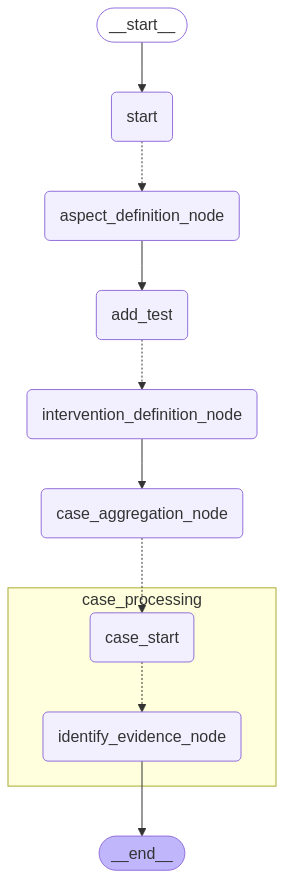
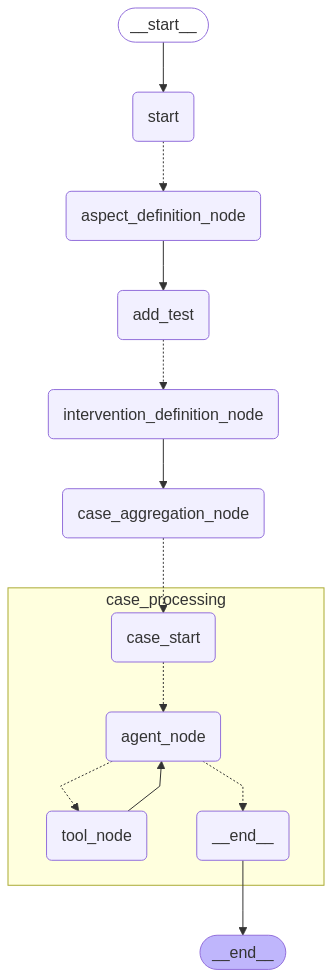
restructured from react to workflow

diff --git a/src/coding/coding_exec.py b/src/coding/coding_exec.py
@@ -1,7 +1,7 @@
 from coding_state import CodingState, CaseInfo, CaseProcessingState
 from coding_utils import parse_arguments, initialize_state
 from langgraph.types import Send
-from typing import Dict, Any, List, Literal
+from typing import Dict, Any, List, Literal, cast
 from langgraph.config import get_config
 import os
 import logging
@@ -17,6 +17,7 @@ from langgraph.prebuilt import ToolNode
 from coding_prompt import identify_key_aspects_prompt, identify_intervention
 from coding_utils import visualize_graph
 from coding_tools import TOOLS
+from coding_prompt import identify_evidence_prompt
 
 # --- Logging Setup ---
 debug_dir = os.getenv("DEBUG_DIR", "debug")
@@ -373,7 +374,7 @@ def case_subgraph_start(state: dict) -> CaseProcessingState:
     Converts input dictionary to CaseProcessingState.
     """
     # Create a proper CaseProcessingState object
-    return state
+    return CaseProcessingState(**state)
 
 def continue_to_identify_evidence(state: CaseProcessingState) -> List[Send]:
     """
@@ -422,7 +423,7 @@ def continue_to_identify_evidence(state: CaseProcessingState) -> List[Send]:
         for file_path in text_files:
             sends.append(
                 Send(
-                    "agent_node",  # Route directly to agent_node instead of evidence_extraction
+                    "agent_node", 
                     {
                         "code_description": code_description,
                         "file_path": file_path,
@@ -468,8 +469,6 @@ def agent_node(state: CaseProcessingState) -> Dict:
     aspects = state.get("aspects", [])
     intervention = state.get("intervention", "Unknown intervention")
     research_question = state.get("research_question", "")
-    case_id = state.get("case_id", "unknown")
-    doc_name = os.path.basename(file_path)
     
     # Get LLM from config
     config = get_config()
@@ -478,59 +477,19 @@ def agent_node(state: CaseProcessingState) -> Dict:
         logging.error(f"[agent_node] LLM for evidence extraction not found in config")
         return {"messages": [HumanMessage(content="Error: LLM not configured")]}
     
-    # Create the runnable config with tool metadata
-    runnable_config = RunnableConfig(configurable={
-        "code_description": code_description,
-        "doc_name": doc_name
-    })
-    
-    # Get existing messages
-    messages = state.get("messages", [])
-    
-    # Process differently based on whether this is the first call or a follow-up
-    if not messages:
-        # First call - create initial messages
-        from coding_prompt import identify_evidence_prompt
-        system_content = identify_evidence_prompt.format(
-            code=code_description,
-            aspects="\n".join([f"- {aspect}" for aspect in aspects]),
-            research_question=research_question,
-            intervention=intervention
-        )
+    system_content = identify_evidence_prompt.format(
+        code=code_description,
+        aspects="\n".join([f"- {aspect}" for aspect in aspects]),
+        research_question=research_question,
+        intervention=intervention
+    )
         
-        system_msg = SystemMessage(content=system_content)
-        human_msg = HumanMessage(content=f"Text to analyze: {text_content}")
-        
-        try:
-            # Get AI response with potential tool calls
-            ai_message = llm_with_tools.invoke([system_msg, human_msg], config=runnable_config)
-            logging.info(f"[agent_node] Got initial AI response for {file_path}")
-            
-            # Return full state with all context preserved
-            return {
-                "messages": [system_msg, human_msg, ai_message]
-            }
-        except Exception as e:
-            logging.error(f"[agent_node] Error from LLM: {e}", exc_info=True)
-            # Return error state with context preserved
-            return {
-                "messages": [system_msg, human_msg, HumanMessage(content=f"Error processing text: {str(e)}")]
-            }
-    else:
-        # Follow-up call - use existing message history
-        try:
-            # Get AI response with existing conversation
-            ai_message = llm_with_tools.invoke(messages, config=runnable_config)
-            logging.info(f"[agent_node] Got follow-up AI response for {file_path}")
-            
-            return {
-                "messages": messages + [ai_message]
-            }
-        except Exception as e:
-            logging.error(f"[agent_node] Error from LLM: {e}", exc_info=True)
-            return {
-                "messages": messages + [HumanMessage(content=f"Error processing text: {str(e)}")],
-            }
+    system_msg = SystemMessage(content=system_content)
+    human_msg = HumanMessage(content=f"Text to analyze: {text_content}")
+    llm_with_tools.invoke([system_msg, human_msg])
+    return {}
+
+
     
 # --- Create and Compile the Case Processing Subgraph ---
 case_processing_graph = StateGraph(CaseProcessingState)
@@ -538,32 +497,6 @@ case_processing_graph = StateGraph(CaseProcessingState)
 # Add nodes directly to the subgraph
 case_processing_graph.add_node("case_start", case_subgraph_start)
 case_processing_graph.add_node("agent_node", agent_node)
-case_processing_graph.add_node("tool_node",  ToolNode(TOOLS))
-
-
-def should_continue(state: CaseProcessingState) -> Literal["__end__", "tool_node"]:
-    """
-    Determines whether to continue the evidence extraction process.
-    Routes to the tool node if there are tool calls to process,
-    or to END if the process is complete.
-    
-    Args:
-        state: Current state with messages
-        
-    Returns:
-        Next node to route to
-    """
-    last_message = state.messages[-1]
-    
-    if not isinstance(last_message, AIMessage):
-        raise ValueError(
-            f"Expected AIMessage in output edges, but got {type(last_message).__name__}"
-        )
-    # If there is no tool call, then we finish
-    if not last_message.tool_calls:
-        return "__end__"
-    # Otherwise we execute the requested actions
-    return "tool_node"
 
 # Add edges to implement the ReAct pattern
 case_processing_graph.add_edge(START, "case_start")
@@ -572,15 +505,6 @@ case_processing_graph.add_conditional_edges(
     continue_to_identify_evidence,
     ["agent_node"]
 )
-case_processing_graph.add_conditional_edges(
-    "agent_node",
-    should_continue,
-    ["tool_node", END]
-)
-case_processing_graph.add_edge("tool_node", "agent_node")  
-
-
-
 # Compile the subgraph
 case_processing_subgraph = case_processing_graph.compile()
 

diff --git a/src/coding/coding_state.py b/src/coding/coding_state.py
@@ -1,9 +1,5 @@
-from typing import TypedDict, List, Dict, Optional, Annotated, Any, Union
+from typing import TypedDict, List, Dict, Optional, Annotated, Any
 from langgraph.graph import MessagesState
-from langchain_core.messages import AnyMessage
-from typing import Sequence
-from langgraph.graph import add_messages
-from dataclasses import field
 
 def merge_aspects(
     current: Optional[Dict[str, Optional[List[str]]]],
@@ -155,9 +151,6 @@ class CaseProcessingState(MessagesState):
     research_question: str
     codes: Dict[str, List[str]]
     evidence_list: Annotated[List[Evidence], append_evidence]
-    messages: Annotated[Sequence[AnyMessage], add_messages] = field(
-        default_factory=list
-    )
 
 class CodingState(TypedDict):
     research_question: str
